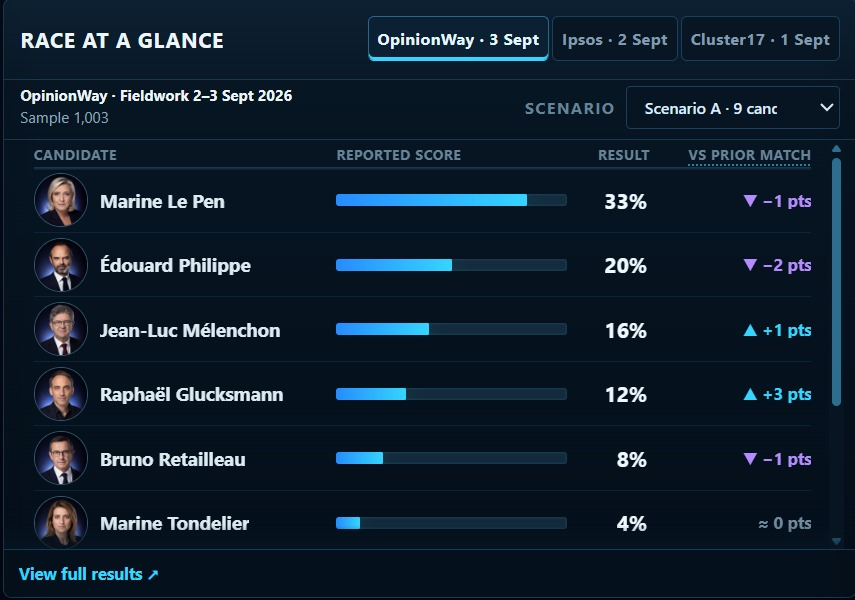
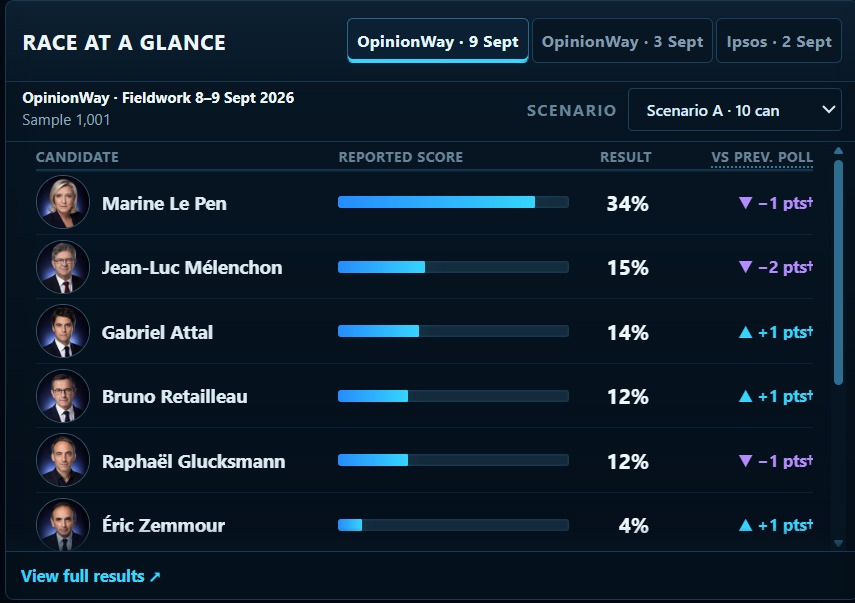
Sync Race previous-poll documentation and screenshots

diff --git a/README.fr.md b/README.fr.md
@@ -16,7 +16,7 @@ Plutôt que de réduire des signaux de nature différente à une moyenne de sond
 
 ![Rapport de force — France 2027 Signal Lab](docs/assets/readme-race-at-a-glance-fr.jpg)
 
-*Rapport de force présente séparément les sondages publiés de premier tour, avec leurs sources, leurs dates de terrain, les configurations de candidatures testées et le contexte nécessaire à leur comparaison.*
+*Rapport de force présente séparément les sondages publiés de premier tour, avec leurs sources, leurs dates de terrain, les configurations de candidatures testées et, pour chaque candidat, l'écart brut avec l'observation de premier tour antérieure la plus proche. Un symbole † signale les comparaisons où l'institut de sondage ou le champ de candidatures a changé.*
 
 ## Pourquoi FR27 existe
 
@@ -31,7 +31,7 @@ Le lecteur peut voir ce qui a changé depuis sa dernière visite ; déterminer s
 | Espace | Ce qu'il permet d'examiner |
 | --- | --- |
 | **Évolutions** | Un registre sourcé des développements significatifs de la campagne, des sondages, du second tour, des vérifications factuelles et des changements juridiques ou procéduraux importants. |
-| **Rapport de force** | Les sondages publiés de premier tour avec leurs dates de terrain, leurs sources, les configurations complètes de candidatures et un contexte de comparaison tenant compte de ces configurations. |
+| **Rapport de force** | Les sondages publiés de premier tour avec leurs dates de terrain, leurs sources, les configurations complètes de candidatures et les écarts bruts par rapport à l'observation antérieure la plus proche de chaque candidat ; les changements de contexte sont signalés et ne sont pas présentés comme des tendances comparables. |
 | **Dynamique médiatique** | La visibilité des candidats, les médias, les thèmes, l'activité et les évolutions de couverture dans le corpus électoral retenu par FR27. |
 | **Candidats** | Pour chaque candidat : sondages, attention sur Wikipédia, visibilité médiatique, signaux d'agenda, vérifications et dossier sourcé. |
 | **Agenda** | Les thèmes liés au processus de campagne et à la stratégie politique, leur persistance, leur évolution et les éléments qui les documentent. |

diff --git a/README.md b/README.md
@@ -16,7 +16,7 @@ Rather than collapse different signals into a polling average, proprietary candi
 
 ![Race at a Glance — France 2027 Signal Lab](docs/assets/readme-race-at-a-glance-en.jpg)
 
-*Race at a Glance presents published first-round poll events individually, with their sources, fieldwork dates, tested candidate configurations, and comparison context.*
+*Race at a Glance presents published first-round poll events individually, with their sources, fieldwork dates, tested candidate configurations, and each candidate's raw difference from the nearest earlier first-round poll observation. A † flag marks comparisons where the polling institute or candidate field changed.*
 
 ## Why FR27 exists
 
@@ -31,7 +31,7 @@ A reader can use FR27 to see what changed since the last visit; determine whethe
 | Surface | What it exposes |
 | --- | --- |
 | **What Changed** | A source-linked ledger of material developments across campaign activity, polling, runoff evidence, fact-checks, and significant legal or procedural changes. |
-| **Race at a Glance** | Published first-round poll events with fieldwork dates, source links, complete candidate configurations, and configuration-aware comparison context. |
+| **Race at a Glance** | Published first-round poll events with fieldwork dates, source links, complete candidate configurations, and raw differences from each candidate's nearest earlier first-round observation; context changes are flagged rather than treated as comparable trends. |
 | **Media Pulse** | Candidate visibility, publishers, topics, activity, and coverage shifts inside the accepted FR27 election-coverage corpus. |
 | **Candidates** | Candidate-level polling evidence, Wikipedia attention, media visibility, agenda signals, scrutiny, and source-linked dossiers. |
 | **Campaign Agenda** | Campaign-process and political-strategy themes, their persistence and movement, and the evidence behind them. |

diff --git a/docs/ARCHITECTURE.md b/docs/ARCHITECTURE.md
@@ -16,7 +16,7 @@ The architecture is designed around several constraints:
 - current-data validation should test structure and relationships rather than depend on fragile snapshot counts;
 - live-source failure should not unnecessarily destroy last-good public state;
 - automated writers should not publish conflicting partial states;
-- frontend behavior should consume explicit published semantics rather than independently recreate research rules; and
+- frontend behavior should consume explicit published semantics for core data contracts; bounded presentation metrics may be derived deterministically from published atomic evidence when their rules are documented and tested; and
 - historical evidence and deterministic identities should remain stable across routine updates.
 
 FR27 therefore favors explicit files, contracts, and publication boundaries over an opaque service layer.
@@ -197,7 +197,7 @@ For example:
 
 Derived artifacts should retain enough provenance to identify their upstream evidence class.
 
-The frontend should not need to reconstruct research rules from presentation state.
+The frontend should not infer or recreate core research semantics from presentation state. Bounded presentation metrics may be derived deterministically from published atomic evidence when their rules are documented and tested, as with Race at a Glance's previous-poll difference.
 
 ## Public data artifacts
 

diff --git a/docs/DATA_AND_PROVENANCE.md b/docs/DATA_AND_PROVENANCE.md
@@ -138,6 +138,8 @@ The source poll remains the evidentiary basis of the observation.
 
 FR27-created identifiers, normalized candidate names, scenario keys, validation states, and comparability relationships are derived metadata used to preserve structure and prevent incompatible observations from being merged.
 
+Race at a Glance's **previous-poll difference** is a presentation-time derivation from the atomic published observations in `polls.json`. It is not source polling, a polling average, or a strict comparability relationship. When the nearest earlier observation differs in polling institute or candidate field, that context is explicitly classified and surfaced with the displayed difference.
+
 ### Commission notice provenance
 
 Polling publication is supported by `commission_notice_registry.json`.

diff --git a/docs/PRODUCT_GUIDE.md b/docs/PRODUCT_GUIDE.md
@@ -4,7 +4,7 @@
 
 This guide explains how to read the public product: what each major workspace shows, how the different surfaces relate to one another, and what conclusions should — and should not — be drawn from them.
 
-**Live dashboard:** https://openeventbits.github.io/france-2027-signal-lab/
+**Live dashboard:** https://france2027.app/
 
 The screenshots in this guide are production snapshots. Live values, candidate status, coverage, events, and source activity change as new evidence is published.
 
